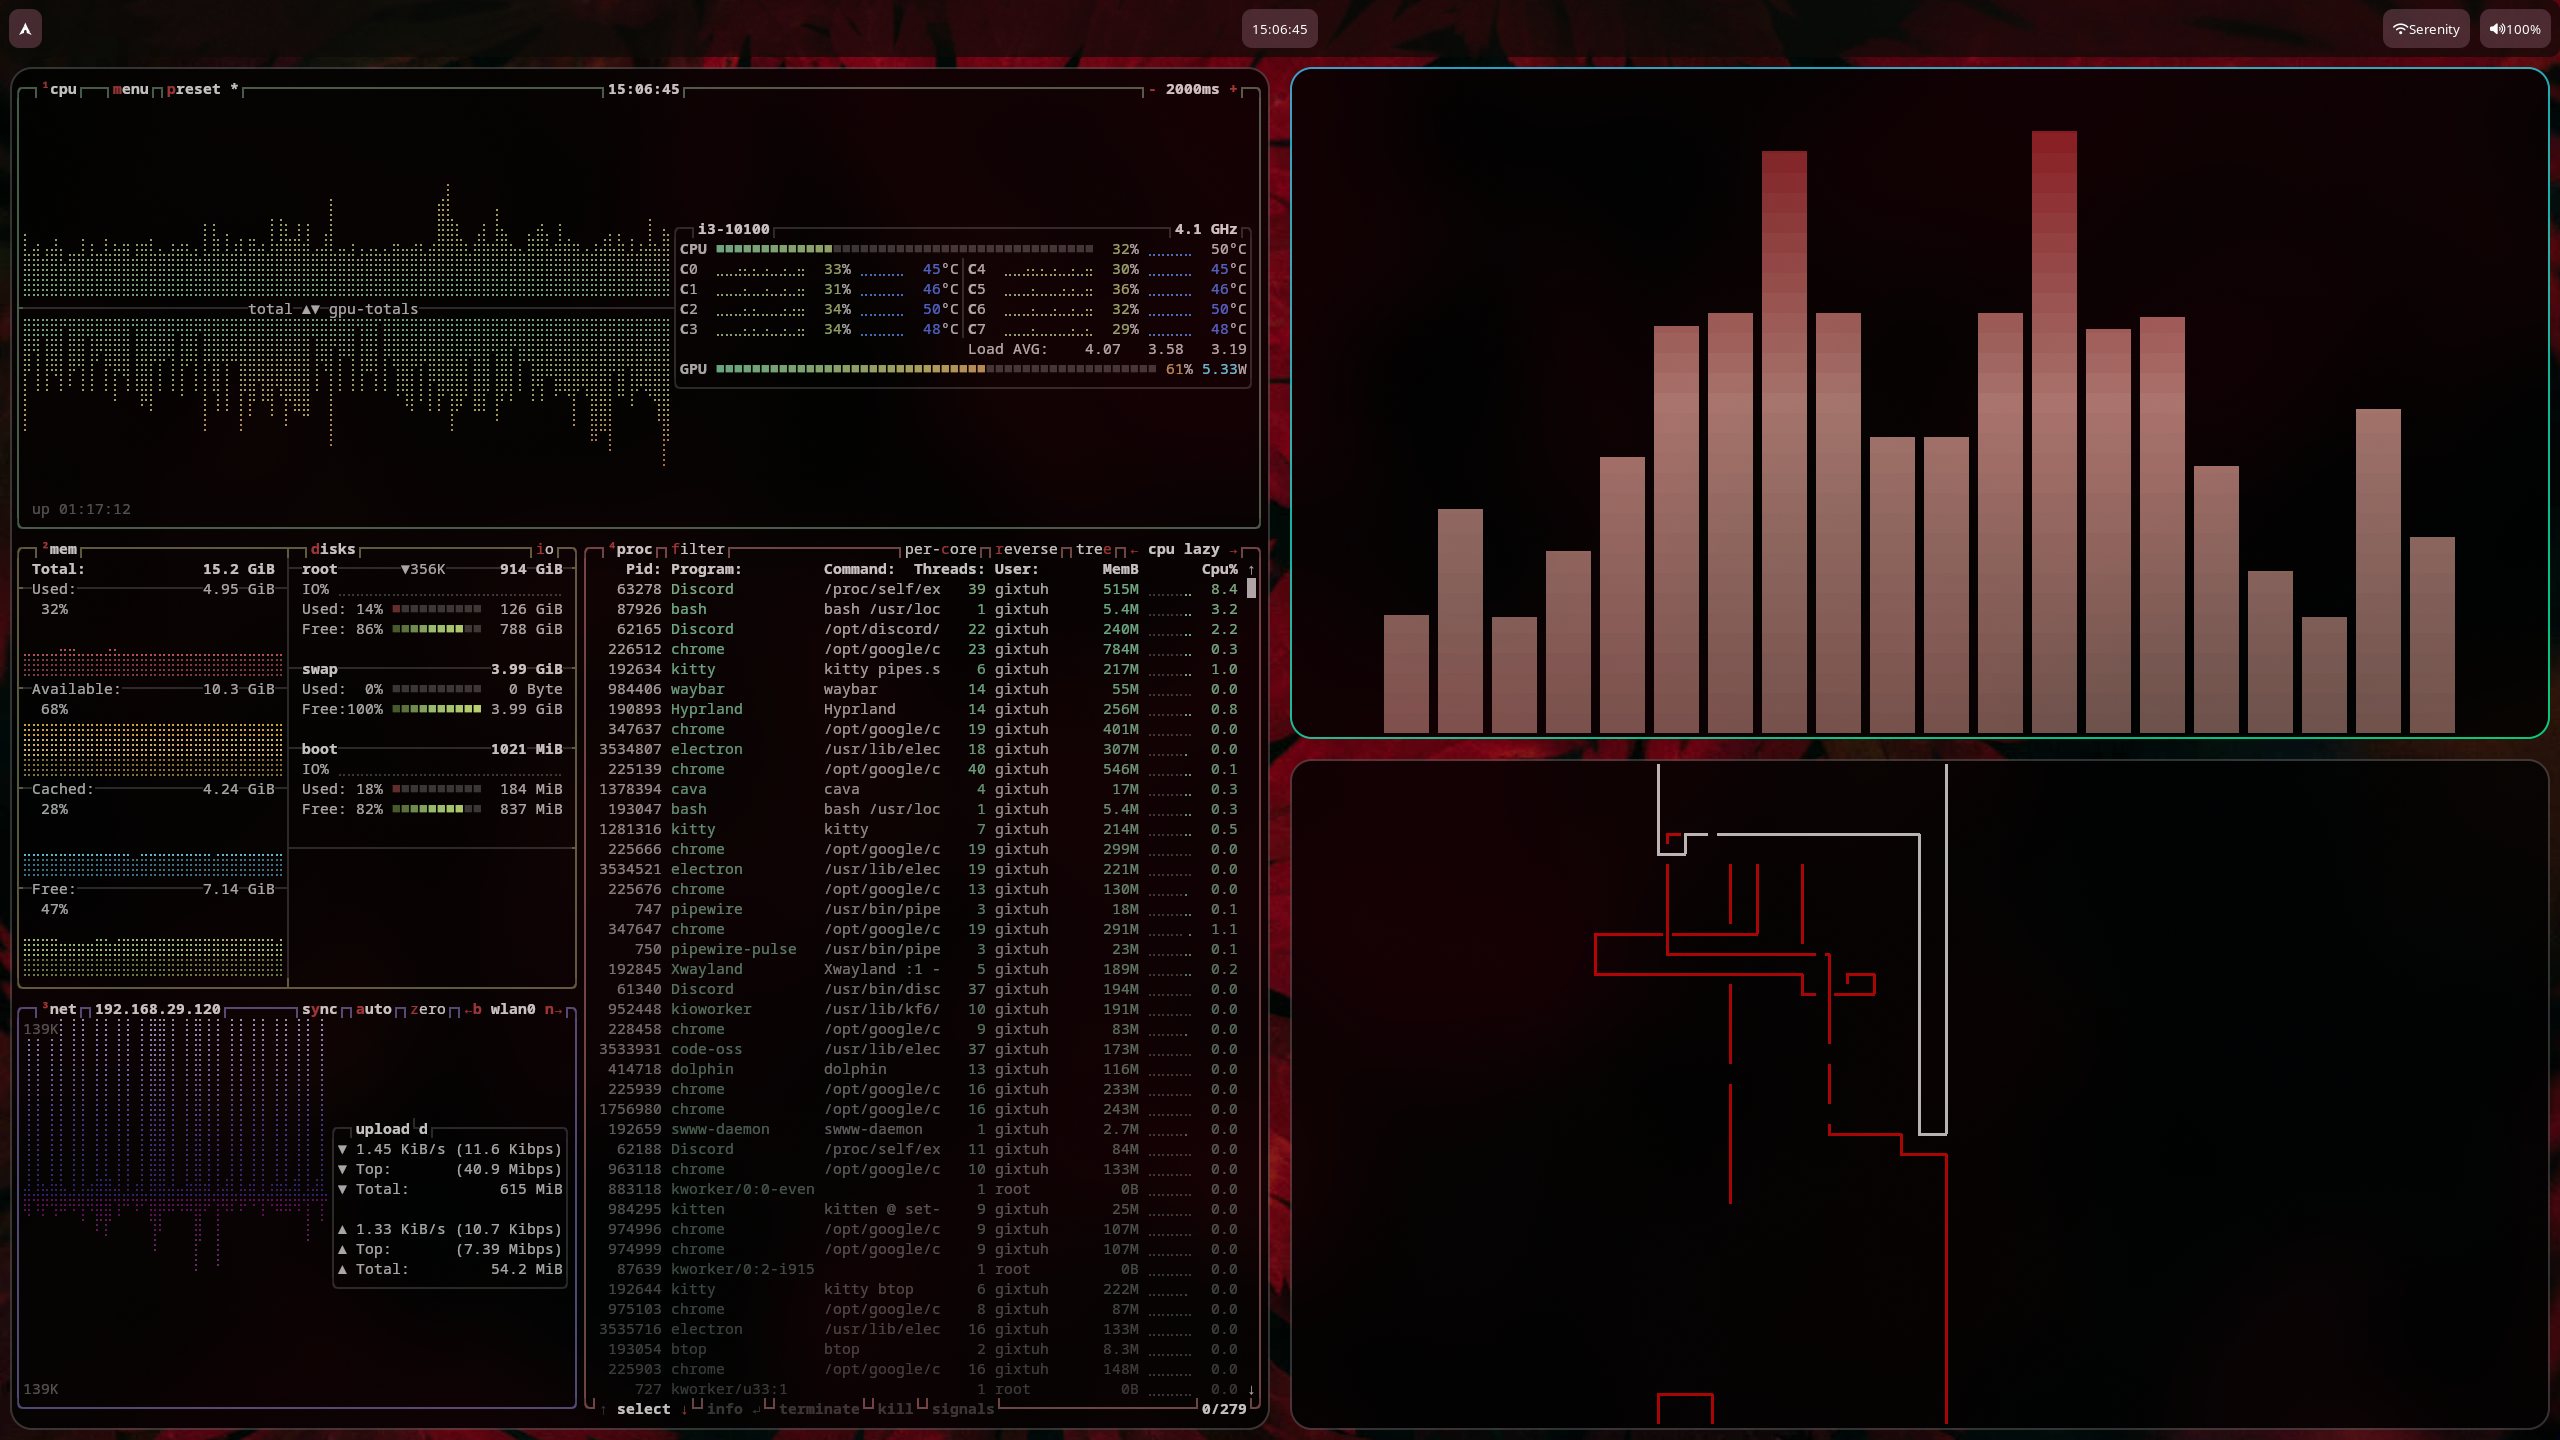
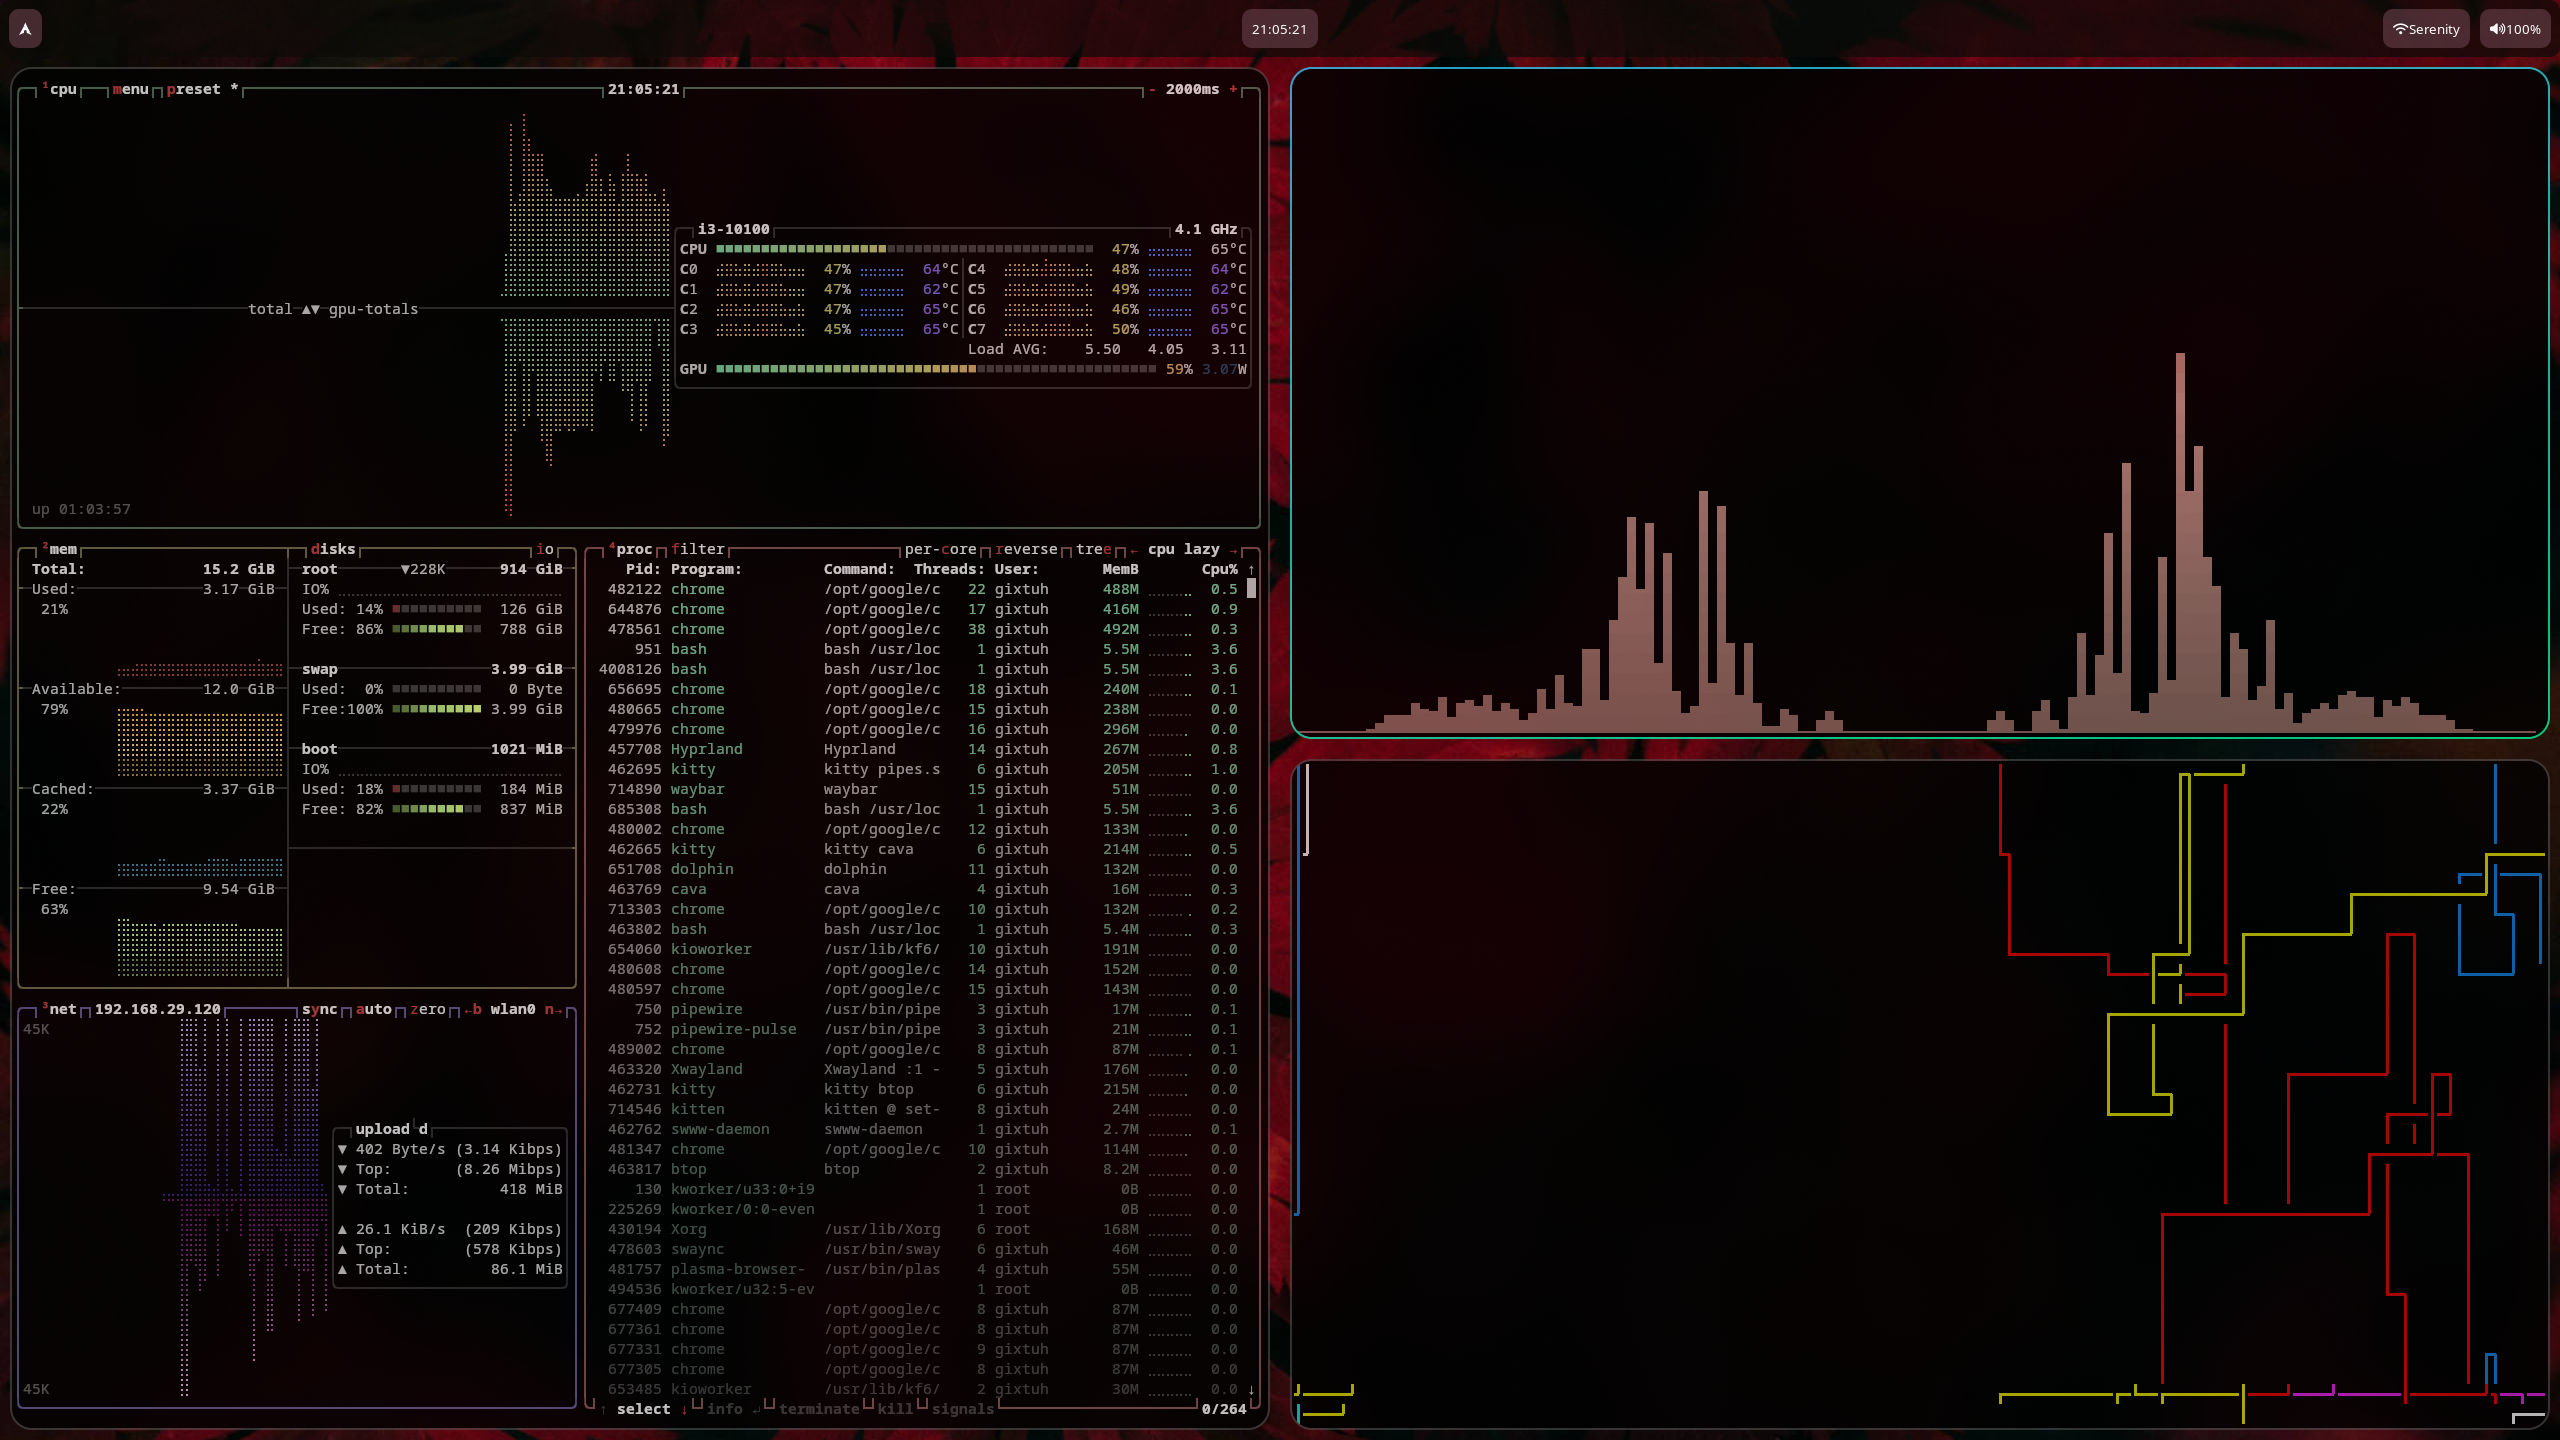
v1.3

diff --git a/README.md b/README.md
@@ -1,4 +1,4 @@
-# Hyprland Dotfiles v1.2
+# Hyprland Dotfiles v1.3
 
 ## Installing tutorial
 
@@ -19,8 +19,6 @@ If you are experiencing problems, please create an issue.
 ![Screenshot](/assets/purple.png)
 
 ![Screenshot](/assets/green.png)
-
-![Screenshot](/assets/kde.png)
 
 Only Arch Linux is supported. ![Screenshot](https://github.com/user-attachments/assets/05aeac22-145c-49d1-a03b-0ac6dd6b6f6e)
 
@@ -90,3 +88,5 @@ plasma-systemmonitor for the graphical task manager.
 v1.1 - Add pywal colors to cava (done)
 
 v1.2 - Add more wallpapers and tweak cava (done)
+
+v1.3 - cava has more bars, less spacing and bars are smaller
